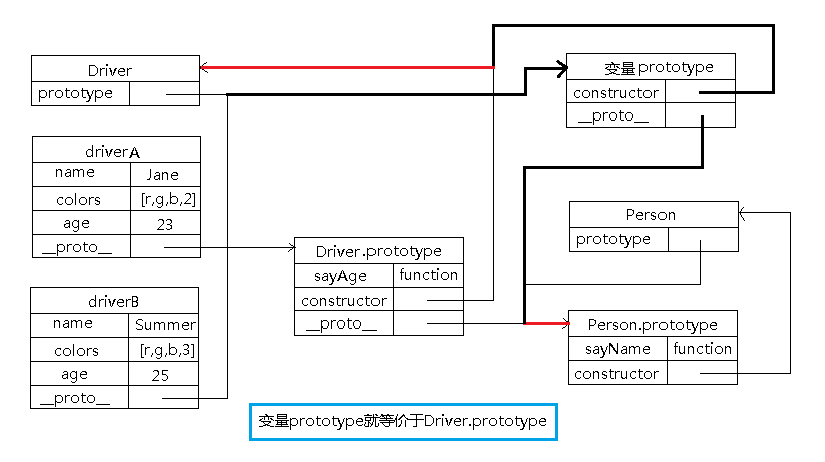
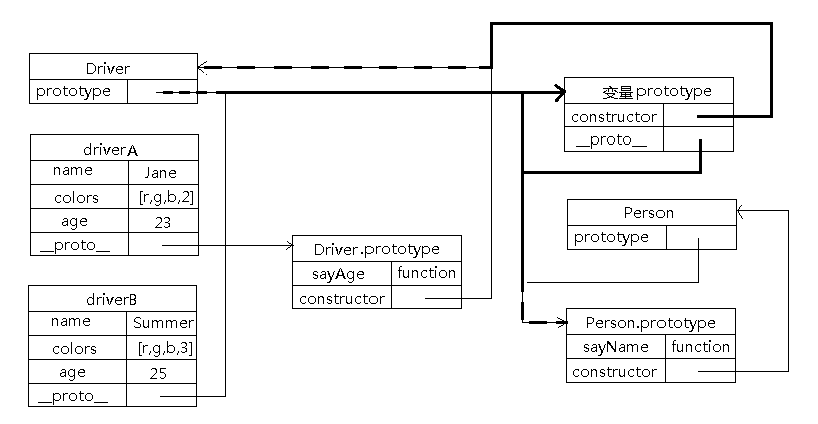
update picture

Changed region(s): [[0.0306, 0.0307, 0.978, 0.9811], [0.0611, 0.9198, 0.1222, 0.9505]]

diff --git a/source/_posts/jsInherit.md b/source/_posts/jsInherit.md
@@ -238,3 +238,5 @@ SubType.prototype存在属性是因为它对SuperType做了实例化继承，我
     driverB.sayName(); // Summer
 ```
 ![](jsInherit/togetherInherit2.png)
+**特点**：高效率，因为只调用了一次构造函数Person，因此避免了在Driver.prototype上创建不必要的、多余的属性；原型链保持不变，可以正常使用instanceof和isPrototypeOf()
+**这是最成熟的方法，也是现在实现库的方法**
